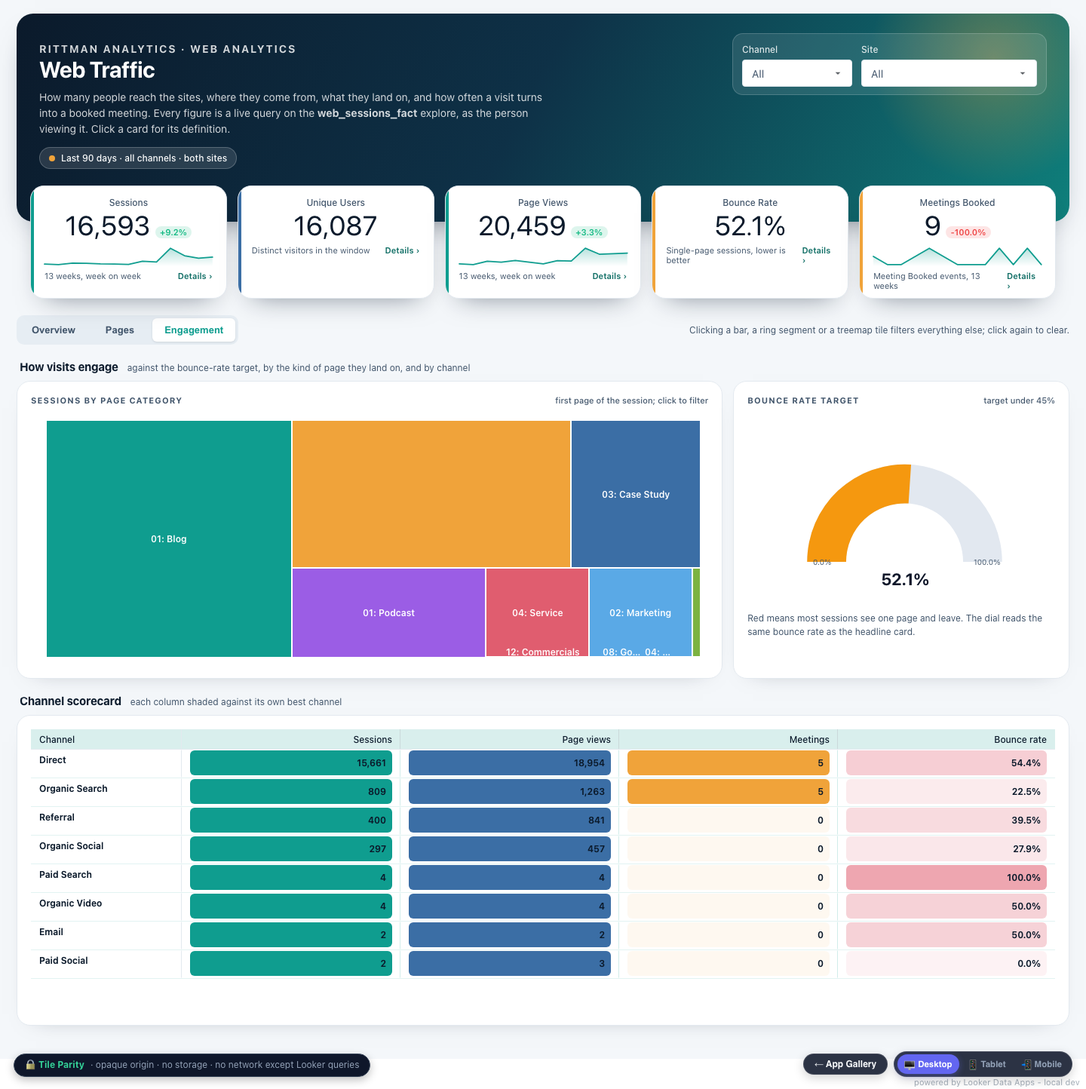
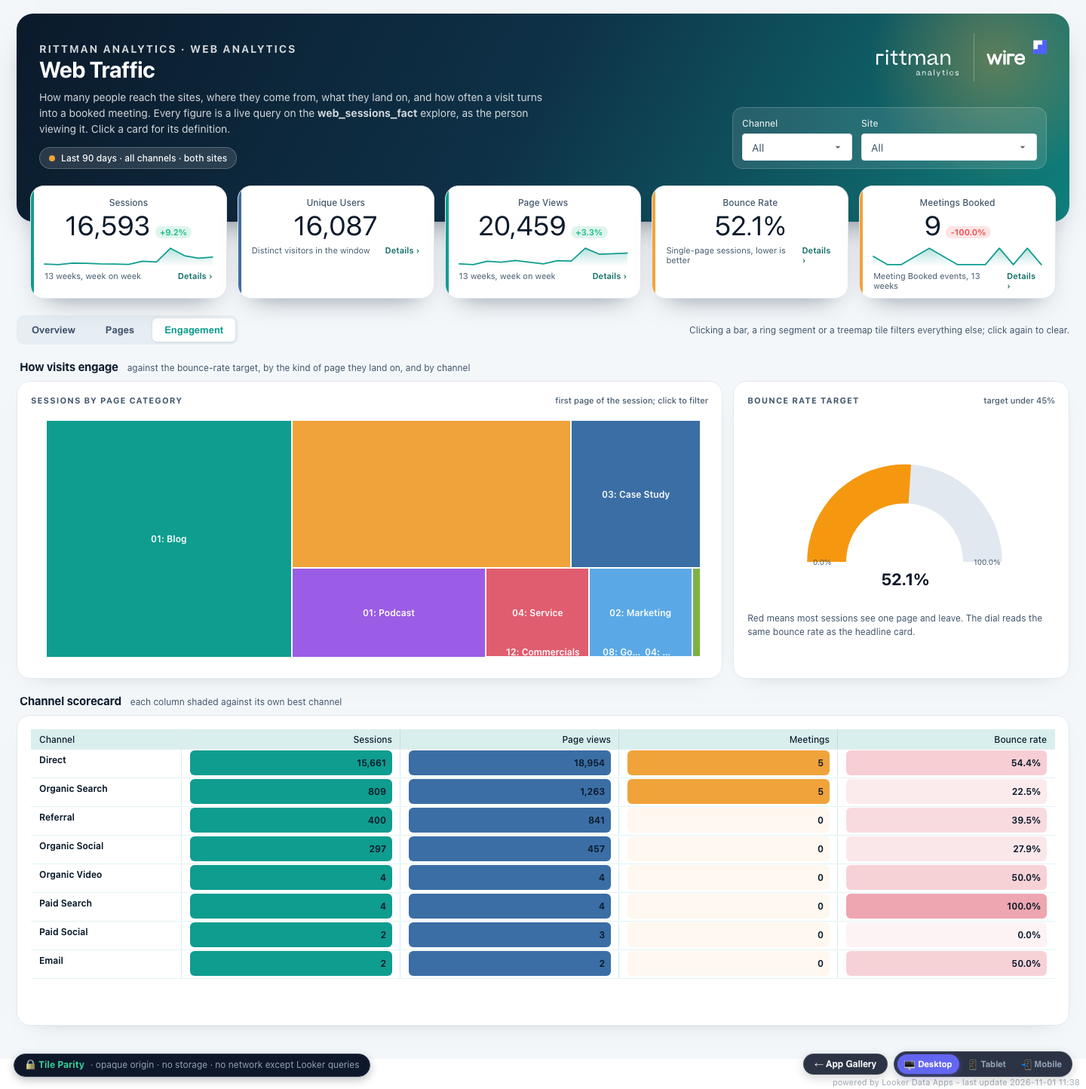
Wire Framework plugin v4.4.7 — re-push dist to plugin repos at v4.4.7

Changed region(s): [[0.6562, 0.0312, 0.9688, 0.1558], [0.7812, 0.7791, 0.9688, 0.9037], [0.0312, 0.7791, 0.0938, 0.8414]]

diff --git a/docs-site/static/examples/data-apps/web-traffic/app.js b/docs-site/static/examples/data-apps/web-traffic/app.js
@@ -370,7 +370,7 @@ export class WebTrafficApp extends DataApp {
           background: linear-gradient(118deg, #0b1a2b 0%, #0e3147 48%, #0f9d8f 120%); color: #fff; box-shadow: 0 18px 40px -24px rgba(11, 26, 43, .7); }
         .wt-hero::after { content: ''; position: absolute; right: -80px; top: -120px; width: 360px; height: 360px; border-radius: 50%;
           background: radial-gradient(circle, rgba(240, 163, 58, .35) 0%, rgba(240, 163, 58, 0) 65%); }
-        .wt-hero-row { display: flex; justify-content: space-between; align-items: flex-start; gap: 20px; flex-wrap: wrap; position: relative; z-index: 1; }
+        .wt-hero-row { display: flex; justify-content: space-between; align-items: stretch; gap: 20px; flex-wrap: wrap; position: relative; z-index: 1; }
         .wt-eyebrow { font-size: 11px; font-weight: 700; letter-spacing: .14em; text-transform: uppercase; color: rgba(255,255,255,.72); margin: 0 0 6px; }
         .wt-eyebrow-dark { color: var(--wt-ink-soft); }
         .wt-hero h1 { margin: 0; font-size: 30px; line-height: 1.1; letter-spacing: -0.02em; font-weight: 700; }
@@ -378,6 +378,8 @@ export class WebTrafficApp extends DataApp {
         .wt-scope { display: inline-flex; align-items: center; gap: 8px; margin-top: 14px; padding: 6px 12px; border-radius: 999px;
           background: rgba(255,255,255,.12); border: 1px solid rgba(255,255,255,.22); font-size: 12px; font-weight: 500; }
         .wt-scope::before { content: ''; width: 8px; height: 8px; border-radius: 50%; background: var(--wt-amber); }
+        .wt-hero-side { display: flex; flex-direction: column; align-items: flex-end; justify-content: space-between; gap: 16px; }
+        .wt-logo { height: 64px; width: auto; display: block; }
         .wt-hero-controls { display: flex; gap: 12px; flex-wrap: wrap; padding: 10px 12px; border-radius: 14px; background: rgba(255,255,255,.1); border: 1px solid rgba(255,255,255,.18); }
         .wt-hero-controls .da-select-label, .wt-hero-controls label { color: rgba(255,255,255,.85); }
 
@@ -454,6 +456,9 @@ export class WebTrafficApp extends DataApp {
               <p>How many people reach the sites, where they come from, what they land on, and how often a visit turns into a booked meeting. Every figure is a live query on the <strong>web_sessions_fact</strong> explore, as the person viewing it. Click a card for its definition.</p>
               <div class="wt-scope">${this.scopeLabel()}</div>
             </div>
+            <div class="wt-hero-side">
+              <!-- Wire wordmark, inline SVG: the tile cannot load images from other hosts -->
+              <svg class="wt-logo" viewBox="0 0 831 235" role="img" aria-label="Rittman Analytics Wire" xmlns="http://www.w3.org/2000/svg"><path d="M45.8553 87.3287C45.8553 85.6156 46.5398 83.9024 47.5664 82.8745C48.593 81.8466 50.304 81.1614 52.3572 81.1614C54.4105 81.1614 55.7793 81.8466 56.8059 82.8745C57.8325 83.9024 58.5169 85.6156 58.5169 87.3287C58.5169 89.0419 57.8325 90.4124 56.8059 91.7829C55.7793 92.8108 54.0682 93.4961 52.3572 93.4961C50.6462 93.4961 48.9352 92.8108 47.9086 91.7829C46.5398 90.755 45.8553 89.0419 45.8553 87.3287ZM56.4637 101.377V153.114H47.5664V101.377H56.4637Z" fill="white"/><path d="M103.688 145.233V152.428C102.661 153.114 101.293 153.456 99.9237 153.799C98.5549 154.142 96.8439 154.142 95.1329 154.142C89.9998 154.142 86.2355 152.771 83.8401 150.03C81.4447 147.289 80.4181 143.177 80.4181 137.353V108.914H68.4409V101.377H80.4181V87.6714L88.9732 82.532V101.377H104.03V108.914H88.9732V136.325C88.9732 140.094 89.6576 142.835 91.0264 144.205C92.3952 145.576 94.4485 146.261 97.1861 146.261C98.5549 146.261 99.5815 146.261 100.608 145.919C101.635 145.919 102.661 145.576 103.688 145.233Z" fill="white"/><path d="M146.121 145.233V152.428C145.095 153.114 143.726 153.456 142.357 153.799C140.988 154.142 139.277 154.142 137.566 154.142C132.433 154.142 128.669 152.771 126.273 150.03C123.878 147.289 122.851 143.177 122.851 137.353V108.914H110.874V101.377H122.851V87.6714L131.407 82.532V101.377H146.464V108.914H131.407V136.325C131.407 140.094 132.091 142.835 133.46 144.205C134.829 145.576 136.882 146.261 139.619 146.261C140.988 146.261 142.015 146.261 143.041 145.919C144.068 145.919 145.095 145.576 146.121 145.233Z" fill="white"/><path d="M166.311 128.444V153.114H157.414V101.377H166.311V114.739C168.022 109.942 170.418 106.516 173.498 104.118C176.577 101.719 180.342 100.349 184.448 100.349C189.239 100.349 193.003 101.719 195.741 104.118C198.478 106.516 200.532 109.942 201.216 114.396C202.927 109.942 205.323 106.173 208.745 103.775C212.167 101.377 215.931 100.349 220.037 100.349C225.855 100.349 230.303 102.404 233.383 106.516C236.463 110.628 237.832 115.767 237.832 121.934V153.114H228.935V123.99C228.935 119.193 227.908 115.424 226.197 112.341C224.486 109.257 221.064 107.886 216.615 107.886C212.167 107.886 208.745 109.6 206.007 113.026C203.269 116.452 201.9 121.592 201.9 128.102V153.114H193.345V123.647C193.345 118.851 192.319 115.082 190.608 112.341C188.897 109.6 185.475 107.886 181.026 107.886C176.577 107.886 173.155 109.6 170.418 113.026C167.68 116.795 166.311 121.934 166.311 128.444Z" fill="white"/><path d="M264.524 154.142C259.049 154.142 254.942 152.771 252.205 150.373C249.467 147.974 248.098 144.891 248.098 141.122C248.098 138.038 248.783 135.64 249.809 133.927C251.178 132.213 252.547 130.5 254.942 129.13C256.653 128.102 259.049 127.074 261.444 126.389C263.84 125.703 267.262 124.676 271.026 123.99C275.817 122.962 279.581 121.934 281.976 120.907C284.372 119.879 285.398 118.166 285.398 115.767C285.398 113.711 284.372 111.656 282.661 109.942C280.95 108.229 277.87 107.544 273.421 107.544C269.315 107.544 265.893 108.572 263.497 110.628C261.102 112.683 259.049 115.424 257.338 119.193L249.467 116.452C251.52 111.313 254.942 107.544 259.049 104.803C263.155 102.062 268.288 100.691 274.106 100.691C280.608 100.691 285.398 102.062 288.82 105.146C292.243 108.229 293.954 112.341 293.954 118.166V139.409C293.954 142.15 294.296 144.205 295.322 145.233C296.349 146.261 297.718 146.946 299.429 146.946C300.113 146.946 300.798 146.946 301.482 146.604C302.166 146.604 302.509 146.261 303.193 146.261V152.429C302.509 152.771 301.482 153.114 300.455 153.456C299.429 153.799 298.06 153.799 296.691 153.799C292.927 153.799 289.847 152.771 288.136 150.715C286.425 148.66 285.398 145.576 285.398 141.122V138.381C283.687 143.178 280.95 146.604 277.186 149.345C273.763 152.771 269.315 154.142 264.524 154.142ZM267.946 147.289C269.999 147.289 272.395 146.946 274.448 145.919C276.501 144.891 278.554 143.52 280.265 142.15C281.976 140.436 283.345 138.381 284.372 135.982C285.398 133.584 286.083 130.843 286.083 128.102V123.99C285.056 125.361 283.687 126.389 281.634 127.417C279.581 128.444 276.159 129.13 272.395 130.158C267.604 131.185 263.84 132.556 261.444 133.927C259.049 135.297 257.68 137.695 257.68 140.779C257.68 142.835 258.706 144.548 260.417 145.919C261.786 146.604 264.182 147.289 267.946 147.289Z" fill="white"/><path d="M313.117 153.114V101.377H322.014V114.739C323.725 109.942 326.121 106.516 329.543 104.118C332.965 101.719 336.729 100.349 341.178 100.349C347.68 100.349 352.128 102.404 355.55 106.516C358.972 110.628 360.341 115.767 360.341 122.277V153.114H351.444V124.333C351.444 119.536 350.417 115.424 348.364 112.683C346.311 109.6 342.889 108.229 337.756 108.229C333.307 108.229 329.543 109.942 326.463 113.369C323.725 116.795 322.014 121.934 322.014 128.444V153.114H313.117Z" fill="white"/><path d="M35.247 101.376H0V153.114H8.55511V110.285H35.247V101.376Z" fill="white"/><path d="M199.99 204.774C197.937 204.774 196.568 204.432 195.542 203.404C194.515 202.376 194.173 201.348 194.173 199.977C194.173 198.949 194.515 197.922 194.857 197.236C195.199 196.551 195.884 195.866 196.568 195.523C197.253 195.181 197.937 194.838 198.964 194.495C199.99 194.153 201.017 193.81 202.386 193.467C204.097 193.125 205.466 192.782 206.492 192.439C207.519 192.097 207.861 191.412 207.861 190.726C207.861 190.041 207.519 189.356 206.834 188.671C206.15 187.985 205.123 187.643 203.412 187.643C202.044 187.643 200.675 187.985 199.648 188.671C198.622 189.356 197.937 190.384 197.595 191.754L194.515 190.726C195.199 189.013 196.568 187.3 197.937 186.272C199.306 185.244 201.359 184.902 203.412 184.902C205.808 184.902 207.519 185.587 208.888 186.615C210.256 187.643 210.941 189.356 210.941 191.412V199.292C210.941 200.32 211.283 201.005 211.625 201.348C211.967 201.69 212.652 202.033 212.994 202.033C213.336 202.033 213.336 202.033 213.678 202.033C214.021 202.033 214.021 202.033 214.363 202.033V204.432C214.021 204.432 213.679 204.774 213.336 204.774C212.994 204.774 212.31 204.774 211.967 204.774C210.599 204.774 209.572 204.432 208.888 203.746C208.203 203.061 207.861 202.033 207.861 200.32V199.292C207.177 201.005 206.15 202.376 204.781 203.404C203.07 204.432 201.701 204.774 199.99 204.774ZM201.017 202.376C201.701 202.376 202.728 202.376 203.412 202.033C204.097 201.69 204.781 201.348 205.466 200.663C206.15 199.977 206.492 199.292 206.834 198.264C207.177 197.236 207.519 196.551 207.519 195.181V193.467C207.177 193.81 206.492 194.495 205.808 194.838C205.123 195.181 203.755 195.523 202.386 195.866C200.675 196.208 199.306 196.551 198.279 197.236C197.253 197.922 196.91 198.607 196.91 199.635C196.91 200.32 197.253 201.005 197.937 201.69C198.964 202.033 199.648 202.376 201.017 202.376Z" fill="white"/><path d="M223.26 204.431V185.587H226.34V190.384C227.024 188.67 228.051 187.3 229.078 186.615C230.446 185.587 231.815 185.244 233.526 185.244C235.922 185.244 237.633 185.929 238.659 187.643C239.686 189.013 240.37 191.069 240.37 193.467V204.774H237.291V194.153C237.291 192.439 236.948 191.069 236.264 189.698C235.579 188.67 234.211 187.985 232.5 187.985C230.789 187.985 229.42 188.67 228.393 190.041C227.024 191.069 226.34 192.782 226.34 195.523V204.774L223.26 204.431Z" fill="white"/><path d="M256.454 204.774C254.401 204.774 253.032 204.432 252.005 203.404C250.979 202.376 250.637 201.348 250.637 199.977C250.637 198.949 250.979 197.922 251.321 197.236C251.663 196.551 252.348 195.866 253.032 195.523C253.716 195.181 254.401 194.838 255.427 194.495C256.454 194.153 257.481 193.81 258.85 193.467C260.561 193.125 261.929 192.782 262.956 192.439C263.983 192.097 264.325 191.412 264.325 190.726C264.325 190.041 263.983 189.356 263.298 188.671C262.614 187.985 261.587 187.643 259.876 187.643C258.507 187.643 257.138 187.985 256.112 188.671C255.085 189.356 254.401 190.384 254.059 191.754L250.979 190.726C251.663 189.013 253.032 187.3 254.401 186.272C255.77 185.244 257.823 184.902 259.876 184.902C262.272 184.902 263.983 185.587 265.351 186.615C266.72 187.643 267.405 189.356 267.405 191.412V199.292C267.405 200.32 267.747 201.005 268.089 201.348C268.431 201.69 269.116 202.033 269.458 202.033C269.8 202.033 269.8 202.033 270.142 202.033C270.484 202.033 270.484 202.033 270.827 202.033V204.432C270.484 204.432 270.142 204.774 269.8 204.774C269.458 204.774 268.773 204.774 268.431 204.774C267.062 204.774 266.036 204.432 265.351 203.746C264.667 203.061 264.325 202.033 264.325 200.32V199.292C263.64 201.005 262.614 202.376 261.245 203.404C259.876 204.432 258.165 204.774 256.454 204.774ZM257.823 202.376C258.507 202.376 259.534 202.376 260.218 202.033C260.903 201.69 261.587 201.348 262.272 200.663C262.956 199.977 263.298 199.292 263.64 198.264C263.983 197.236 264.325 196.551 264.325 195.181V193.467C263.983 193.81 263.298 194.495 262.614 194.838C261.929 195.181 260.561 195.523 259.192 195.866C257.481 196.208 256.112 196.551 255.085 197.236C254.059 197.922 253.716 198.607 253.716 199.635C253.716 200.32 254.059 201.005 254.743 201.69C255.427 202.033 256.454 202.376 257.823 202.376Z" fill="white"/><path d="M283.146 177.364V204.432H279.724V177.364H283.146Z" fill="white"/><path d="M311.891 185.587L300.598 211.969H297.176L300.598 204.432L292.728 185.93H296.15L301.283 198.607L302.309 201.691L303.336 198.607L308.469 185.93H311.891V185.587Z" fill="white"/><path d="M333.108 201.348V204.089C332.766 204.431 332.081 204.431 331.739 204.431C331.055 204.431 330.712 204.431 330.028 204.431C327.975 204.431 326.606 204.089 325.921 203.061C325.237 202.033 324.553 200.663 324.553 198.607V187.985H320.104V185.244H324.553V180.105L327.632 178.392V185.244H333.108V187.985H327.632V197.922C327.632 199.292 327.975 200.32 328.317 200.663C328.659 201.348 329.686 201.348 330.712 201.348C331.055 201.348 331.739 201.348 332.081 201.348C332.081 201.69 332.766 201.69 333.108 201.348Z" fill="white"/><path d="M342.689 180.447C342.689 179.762 343.032 179.42 343.374 178.734C343.716 178.392 344.4 178.049 345.085 178.049C345.769 178.049 346.454 178.392 346.796 178.734C347.138 179.077 347.48 179.762 347.48 180.447C347.48 181.133 347.138 181.475 346.796 182.161C346.111 182.503 345.427 182.503 344.743 182.503C344.058 182.503 343.374 182.161 343.032 181.818C342.689 181.475 342.689 181.133 342.689 180.447ZM346.454 185.587V204.432H343.032V185.587H346.454Z" fill="white"/><path d="M375.199 192.097L371.777 192.782C371.435 191.411 371.092 190.041 370.066 189.013C369.039 187.985 368.013 187.643 366.302 187.643C365.275 187.643 364.248 187.985 363.564 188.328C362.88 188.67 362.195 189.356 361.511 189.698C360.826 190.041 360.484 191.069 360.484 192.097C360.142 193.125 360.142 193.81 360.142 194.838C360.142 196.894 360.484 198.607 361.511 199.977C362.537 201.348 363.906 202.033 366.302 202.033C368.013 202.033 369.381 201.69 370.066 200.662C371.092 199.635 371.435 198.607 371.777 196.894L375.199 197.579C374.857 198.607 374.514 199.635 374.172 200.32C373.83 201.005 373.146 202.033 372.461 202.376C371.777 203.061 370.75 203.404 369.724 203.746C368.697 204.089 367.67 204.431 366.302 204.431C364.591 204.431 363.222 204.089 362.195 203.746C361.168 203.404 360.142 202.718 359.115 201.69C358.431 200.662 357.746 199.635 357.404 198.607C357.062 197.579 356.72 196.208 356.72 194.838C356.72 193.467 357.062 192.097 357.404 191.069C357.746 190.041 358.431 188.67 359.115 187.985C359.8 186.957 360.826 186.272 362.195 185.929C363.222 185.244 364.591 185.244 366.302 185.244C367.67 185.244 368.697 185.587 369.724 185.929C370.75 186.272 371.435 186.957 372.461 187.3C373.146 187.985 373.83 188.67 374.172 189.698C374.857 190.384 375.199 191.411 375.199 192.097Z" fill="white"/><path d="M384.096 201.005L386.492 198.949C387.176 199.977 388.203 201.005 389.229 201.348C390.256 201.69 391.625 202.376 392.993 202.376C394.362 202.376 395.731 202.033 396.416 201.348C397.1 200.662 397.442 199.977 397.442 199.292C397.442 198.264 396.758 197.579 395.731 197.236C394.362 196.894 392.994 196.551 390.94 196.208C388.887 195.866 387.518 195.523 386.149 194.495C385.123 193.81 384.438 192.439 384.438 191.069C384.438 189.356 385.123 187.985 386.492 186.957C387.86 185.929 389.571 185.244 391.967 185.244C394.02 185.244 395.731 185.587 397.1 186.272C398.469 186.957 399.838 187.985 400.864 189.356L398.469 191.411C397.784 190.384 396.758 189.356 395.731 188.67C394.705 187.985 393.678 187.985 391.967 187.985C390.598 187.985 389.229 188.328 388.887 189.013C388.203 189.698 387.86 190.384 387.86 191.069C387.86 192.097 388.203 192.782 389.229 193.125C390.256 193.467 391.625 193.81 393.336 194.153C394.362 194.153 395.389 194.495 396.073 194.838C397.1 195.18 397.784 195.523 398.469 195.866C399.153 196.208 399.495 196.894 399.838 197.236C400.18 197.921 400.522 198.607 400.522 199.635C400.522 200.32 400.522 201.348 400.18 202.033C399.838 202.718 399.495 203.404 398.811 203.746C398.127 204.431 397.442 204.774 396.416 205.117C395.389 205.459 394.362 205.459 393.336 205.459C391.282 205.459 389.229 205.117 387.86 204.431C386.149 203.061 385.123 202.033 384.096 201.005Z" fill="white"/><rect x="765" y="35" width="64" height="64" fill="white"/><rect x="765" y="78.804" width="21.902" height="21.902" fill="#4F60FF"/><rect x="786.902" y="56.9019" width="21.902" height="43.8039" fill="#4F60FF"/><rect x="808.804" y="35" width="21.902" height="65.7059" fill="#4F60FF"/><rect x="765" y="78.804" width="21.902" height="21.902" fill="#4F60FF"/><rect x="786.902" y="56.9019" width="21.902" height="43.8039" fill="#4F60FF"/><rect x="808.804" y="35" width="21.902" height="65.7059" fill="#4F60FF"/><g clip-path="url(#clip0_571_35)"><path d="M672.187 102.141H638.281V151.675H646.627V110.499H672.187V102.141Z" fill="white" stroke-width="1.75" stroke-miterlimit="10" stroke="white"/><path d="M575.065 116.097L562.895 151.661H555.384L538.565 102.16H547.469L559.439 138.318L571.817 102.16H578.345L590.714 138.318L602.675 102.16H611.676L594.858 151.671H587.341L575.065 116.097Z" fill="white" stroke-width="1.75" stroke-miterlimit="10" stroke="white"/><path d="M628.416 102.141H619.907V151.675H628.416V102.141Z" fill="white" stroke-width="1.75" stroke-miterlimit="10" stroke="white"/><path d="M699.201 152.679C684.781 152.679 674.31 141.7 674.31 126.968C674.31 112.525 683.988 101.254 699.396 101.254C714.902 101.254 724.288 113.909 723.1 129.24H682.902C683.199 138.239 690.409 144.967 699.299 144.967C705.423 144.967 710.656 142.592 713.621 136.66H722.311C719.843 145.366 711.742 152.679 699.201 152.679ZM683.297 122.518H714.113C712.531 113.319 706.411 108.771 699.099 108.771C691.982 108.771 684.976 112.724 683.297 122.518Z" fill="white" stroke-width="1.75" stroke-miterlimit="10" stroke="white"/><path d="M624.162 93.9876C627.081 93.9876 629.447 91.6184 629.447 88.6959C629.447 85.7734 627.081 83.4043 624.162 83.4043C621.244 83.4043 618.878 85.7734 618.878 88.6959C618.878 91.6184 621.244 93.9876 624.162 93.9876Z" fill="white" stroke-width="1.75" stroke-miterlimit="10" stroke="white"/></g><g clip-path="url(#clip1_571_35)"><path d="M672.187 102.141H638.281V151.675H646.627V110.499H672.187V102.141Z" fill="white" stroke-width="1.75" stroke-miterlimit="10" stroke="white"/><path d="M575.065 116.097L562.895 151.661H555.384L538.565 102.16H547.469L559.439 138.318L571.817 102.16H578.345L590.714 138.318L602.675 102.16H611.676L594.858 151.671H587.341L575.065 116.097Z" fill="white" stroke-width="1.75" stroke-miterlimit="10" stroke="white"/><path d="M628.416 102.141H619.907V151.675H628.416V102.141Z" fill="white" stroke-width="1.75" stroke-miterlimit="10" stroke="white"/><path d="M699.201 152.679C684.781 152.679 674.31 141.7 674.31 126.968C674.31 112.525 683.988 101.254 699.396 101.254C714.902 101.254 724.288 113.909 723.1 129.24H682.902C683.199 138.239 690.409 144.967 699.299 144.967C705.423 144.967 710.656 142.592 713.621 136.66H722.311C719.843 145.366 711.742 152.679 699.201 152.679ZM683.297 122.518H714.113C712.531 113.319 706.411 108.771 699.099 108.771C691.982 108.771 684.976 112.724 683.297 122.518Z" fill="white" stroke-width="1.75" stroke-miterlimit="10" stroke="white"/><path d="M624.162 93.9876C627.081 93.9876 629.447 91.6184 629.447 88.6959C629.447 85.7734 627.081 83.4043 624.162 83.4043C621.244 83.4043 618.878 85.7734 618.878 88.6959C618.878 91.6184 621.244 93.9876 624.162 93.9876Z" fill="white" stroke-width="1.75" stroke-miterlimit="10" stroke="white"/></g><path d="M475.5 -2.18557e-08L475.5 235" stroke="white"/><defs><clipPath id="clip0_571_35"><rect width="185.607" height="70.0874" fill="white" transform="translate(538 83)"/></clipPath><clipPath id="clip1_571_35"><rect width="185.607" height="70.0874" fill="white" transform="translate(538 83)"/></clipPath></defs></svg>
             <div class="wt-hero-controls">
               <!-- spec filter: Channel -->
               <app-select label="Channel" .value=${this.channel}
@@ -463,6 +468,7 @@ export class WebTrafficApp extends DataApp {
               <app-select label="Site" .value=${this.site}
                 .options=${['All', 'rittmananalytics.com', 'careers.rittmananalytics.com']}
                 @change=${e => { this.site = e.detail.value; }}></app-select>
+            </div>
             </div>
           </div>
         </header>

diff --git a/hooks/wire/constants.ts b/hooks/wire/constants.ts
@@ -2,6 +2,6 @@
 // placeholders were. wire/tests/schema/validate_telemetry_version.py checks
 // that no built package ships either placeholder raw.
 export const SEGMENT_WRITE_KEY = 'DxXwrT6ucDMRmouCsYDwthdChwDLsNYL'
-export const WIRE_VERSION = '4.4.6'
+export const WIRE_VERSION = '4.4.7'
 export const SEGMENT_TRACK = 'https://api.segment.io/v1/track'
 export const SEGMENT_IDENTIFY = 'https://api.segment.io/v1/identify'

diff --git a/scripts/data_app_toolkit.py b/scripts/data_app_toolkit.py
@@ -120,13 +120,22 @@ def title_tag(text: str) -> str | None:
 
 
 def strip_tags(text: str) -> str:
-    """The file without the publish tag lines, for comparison."""
+    """The file without the publish tag lines, for comparison. The publisher
+    (1.2.0) writes a blank ` *` separator line before its tags; that line
+    goes too, or a copy that was only published reads as an edit."""
     span = header_span(text)
     if not span:
         return text
     head = text[span[0]:span[1]]
-    kept = [l for l in head.splitlines(keepends=True)
-            if not re.match(r"^\s*\*?\s*(" + "|".join(re.escape(t) for t in PUBLISH_TAGS) + r")\b", l)]
+    tag_re = re.compile(r"^\s*\*?\s*(" + "|".join(re.escape(t) for t in PUBLISH_TAGS) + r")\b")
+    lines = head.splitlines(keepends=True)
+    kept = []
+    for i, line in enumerate(lines):
+        if tag_re.match(line):
+            continue
+        if line.strip() == "*" and any(tag_re.match(l) for l in lines[i + 1:]):
+            continue
+        kept.append(line)
     return text[:span[0]] + "".join(kept) + text[span[1]:]
 
 

diff --git a/specs/utils/telemetry.md b/specs/utils/telemetry.md
@@ -22,7 +22,7 @@ Run the following as a **single** Bash command, exactly as written. It:
 Do not split it, do not inspect its output, and proceed immediately to the Workflow Specification. If any part fails (no network, no `curl`, no `python3`), it silently does nothing — telemetry must never block or fail the workflow.
 
 ```bash
-WIRE_INVOKED_BY_VALUE="${WIRE_INVOKED_BY:-typed}"; WIRE_P="${WIRE_PERSONA:-$(sed -n 's/^persona:[[:space:]]*//p' .wire/local/persona.yml 2>/dev/null | head -1)}"; [ -n "$WIRE_P" ] || WIRE_P="$(awk -v e="$(git config --get user.email 2>/dev/null | tr '[:upper:]' '[:lower:]')" '/^[[:space:]]*-[[:space:]]+name:/{m=0} /@/{n=split(tolower($0),f,/[][, \t"'"'"']+/); for(i=1;i<=n;i++) if(e!="" && f[i]==e) m=1} /^[[:space:]]+persona:/{if(m){sub(/^[[:space:]]+persona:[[:space:]]*/,""); print; exit}}' .wire/engagement/team.yml 2>/dev/null)"; WIRE_PERSONA_VALUE="$(printf '%s' "$WIRE_P" | tr -cd 'a-z-')"; [ "${WIRE_TELEMETRY:-true}" = "false" ] || ( mkdir -p ~/.wire; if [ ! -f ~/.wire/telemetry_id ]; then WIRE_UID=$(python3 -c "import uuid; print(uuid.uuid4())" 2>/dev/null || uuidgen | tr '[:upper:]' '[:lower:]'); echo "$WIRE_UID" > ~/.wire/telemetry_id; curl -s -X POST https://api.segment.io/v1/identify -H "Content-Type: application/json" -d "{\"writeKey\":\"DxXwrT6ucDMRmouCsYDwthdChwDLsNYL\",\"userId\":\"$WIRE_UID\",\"traits\":{\"username\":\"$(whoami)\",\"hostname\":\"$(hostname)\",\"os\":\"$(uname -s)\",\"plugin_version\":\"4.4.6\",\"first_seen\":\"$(date -u +%Y-%m-%dT%H:%M:%SZ)\"}}" > /dev/null 2>&1; fi; WIRE_UID=$(cat ~/.wire/telemetry_id 2>/dev/null || echo unknown); curl -s -X POST https://api.segment.io/v1/track -H "Content-Type: application/json" -d "{\"writeKey\":\"DxXwrT6ucDMRmouCsYDwthdChwDLsNYL\",\"userId\":\"$WIRE_UID\",\"event\":\"wire_command\",\"properties\":{\"command\":\"__COMMAND_NAME__\",\"timestamp\":\"$(date -u +%Y-%m-%dT%H:%M:%SZ)\",\"git_repo\":\"$(git config --get remote.origin.url 2>/dev/null || echo unknown)\",\"git_branch\":\"$(git rev-parse --abbrev-ref HEAD 2>/dev/null || echo unknown)\",\"username\":\"$(whoami)\",\"hostname\":\"$(hostname)\",\"plugin_version\":\"4.4.6\",\"os\":\"$(uname -s)\",\"runtime\":\"__RUNTIME__\",\"invoked_by\":\"$WIRE_INVOKED_BY_VALUE\",\"persona\":\"$WIRE_PERSONA_VALUE\"}}" > /dev/null 2>&1 ) > /dev/null 2>&1 &
+WIRE_INVOKED_BY_VALUE="${WIRE_INVOKED_BY:-typed}"; WIRE_P="${WIRE_PERSONA:-$(sed -n 's/^persona:[[:space:]]*//p' .wire/local/persona.yml 2>/dev/null | head -1)}"; [ -n "$WIRE_P" ] || WIRE_P="$(awk -v e="$(git config --get user.email 2>/dev/null | tr '[:upper:]' '[:lower:]')" '/^[[:space:]]*-[[:space:]]+name:/{m=0} /@/{n=split(tolower($0),f,/[][, \t"'"'"']+/); for(i=1;i<=n;i++) if(e!="" && f[i]==e) m=1} /^[[:space:]]+persona:/{if(m){sub(/^[[:space:]]+persona:[[:space:]]*/,""); print; exit}}' .wire/engagement/team.yml 2>/dev/null)"; WIRE_PERSONA_VALUE="$(printf '%s' "$WIRE_P" | tr -cd 'a-z-')"; [ "${WIRE_TELEMETRY:-true}" = "false" ] || ( mkdir -p ~/.wire; if [ ! -f ~/.wire/telemetry_id ]; then WIRE_UID=$(python3 -c "import uuid; print(uuid.uuid4())" 2>/dev/null || uuidgen | tr '[:upper:]' '[:lower:]'); echo "$WIRE_UID" > ~/.wire/telemetry_id; curl -s -X POST https://api.segment.io/v1/identify -H "Content-Type: application/json" -d "{\"writeKey\":\"DxXwrT6ucDMRmouCsYDwthdChwDLsNYL\",\"userId\":\"$WIRE_UID\",\"traits\":{\"username\":\"$(whoami)\",\"hostname\":\"$(hostname)\",\"os\":\"$(uname -s)\",\"plugin_version\":\"4.4.7\",\"first_seen\":\"$(date -u +%Y-%m-%dT%H:%M:%SZ)\"}}" > /dev/null 2>&1; fi; WIRE_UID=$(cat ~/.wire/telemetry_id 2>/dev/null || echo unknown); curl -s -X POST https://api.segment.io/v1/track -H "Content-Type: application/json" -d "{\"writeKey\":\"DxXwrT6ucDMRmouCsYDwthdChwDLsNYL\",\"userId\":\"$WIRE_UID\",\"event\":\"wire_command\",\"properties\":{\"command\":\"__COMMAND_NAME__\",\"timestamp\":\"$(date -u +%Y-%m-%dT%H:%M:%SZ)\",\"git_repo\":\"$(git config --get remote.origin.url 2>/dev/null || echo unknown)\",\"git_branch\":\"$(git rev-parse --abbrev-ref HEAD 2>/dev/null || echo unknown)\",\"username\":\"$(whoami)\",\"hostname\":\"$(hostname)\",\"plugin_version\":\"4.4.7\",\"os\":\"$(uname -s)\",\"runtime\":\"__RUNTIME__\",\"invoked_by\":\"$WIRE_INVOKED_BY_VALUE\",\"persona\":\"$WIRE_PERSONA_VALUE\"}}" > /dev/null 2>&1 ) > /dev/null 2>&1 &
 ```
 
 ## The `invoked_by` property

diff --git a/commands/autopilot.md b/commands/autopilot.md
@@ -752,7 +752,7 @@ with its message — that is a real gap, and guessing at a sequence hides it.
 
 8. **Telemetry**: Fire-and-forget:
    ```bash
-   if [ "${WIRE_TELEMETRY:-true}" != "false" ]; then WIRE_UID=$(cat ~/.wire/telemetry_id 2>/dev/null || echo "unknown") && curl -s -X POST https://api.segment.io/v1/track -H "Content-Type: application/json" -d "{\"writeKey\":\"DxXwrT6ucDMRmouCsYDwthdChwDLsNYL\",\"userId\":\"$WIRE_UID\",\"event\":\"wire_command\",\"properties\":{\"command\":\"ARTIFACT_NAME-generate\",\"timestamp\":\"$(date -u +%Y-%m-%dT%H:%M:%SZ)\",\"git_repo\":\"$(git config --get remote.origin.url 2>/dev/null || echo unknown)\",\"git_branch\":\"$(git rev-parse --abbrev-ref HEAD 2>/dev/null || echo unknown)\",\"username\":\"$(whoami)\",\"hostname\":\"$(hostname)\",\"plugin_version\":\"4.4.6\",\"os\":\"$(uname -s)\",\"runtime\":\"claude\",\"invoked_by\":\"autopilot\",\"autopilot_release\":\"{current_release}\",\"autopilot_artifact\":\"ARTIFACT_NAME\"}}" > /dev/null 2>&1 & fi
+   if [ "${WIRE_TELEMETRY:-true}" != "false" ]; then WIRE_UID=$(cat ~/.wire/telemetry_id 2>/dev/null || echo "unknown") && curl -s -X POST https://api.segment.io/v1/track -H "Content-Type: application/json" -d "{\"writeKey\":\"DxXwrT6ucDMRmouCsYDwthdChwDLsNYL\",\"userId\":\"$WIRE_UID\",\"event\":\"wire_command\",\"properties\":{\"command\":\"ARTIFACT_NAME-generate\",\"timestamp\":\"$(date -u +%Y-%m-%dT%H:%M:%SZ)\",\"git_repo\":\"$(git config --get remote.origin.url 2>/dev/null || echo unknown)\",\"git_branch\":\"$(git rev-parse --abbrev-ref HEAD 2>/dev/null || echo unknown)\",\"username\":\"$(whoami)\",\"hostname\":\"$(hostname)\",\"plugin_version\":\"4.4.7\",\"os\":\"$(uname -s)\",\"runtime\":\"claude\",\"invoked_by\":\"autopilot\",\"autopilot_release\":\"{current_release}\",\"autopilot_artifact\":\"ARTIFACT_NAME\"}}" > /dev/null 2>&1 & fi
    ```
    Replace `ARTIFACT_NAME` with the actual artifact name. Do not wait for the result.
 

diff --git a/docs-site/docs/reference/release-notes.md b/docs-site/docs/reference/release-notes.md
@@ -9,6 +9,14 @@ Recent release history for the Wire Framework. For full changelog detail from v3
 
 ---
 
+## v4.4.7: Data app push after a publish
+
+**Released**: November 2026
+
+**A push after a publish was refused.** Google's publisher writes a blank ` *` separator line into the app's header before its tags. `data_app_toolkit.py push` compared the toolkit copy with the last push after removing the tag lines but not that separator, so every push after a first publish was refused as an edit made in the toolkit, and a re-publish ran on the previous copy. The separator is now removed with the tags; the stand-in publisher in the test fixture writes the header the way the real one does, and the test covers a push after a publish.
+
+**The worked example carries the Wire logo.** The tutorial app has the wordmark inline as SVG in the hero band (a tile cannot load images from another host), and the four screenshots are refreshed.
+
 ## v4.4.6: Looker Data Apps (experimental)
 
 **Released**: November 2026

diff --git a/docs-site/docs/intro.md b/docs-site/docs/intro.md
@@ -5,7 +5,7 @@ title: Wire 4.2.1 Overview
 
 # The Wire Framework
 
-**Rittman Analytics** | Version 4.4.6
+**Rittman Analytics** | Version 4.4.7
 
 If you have ever spent the first week of a data platform engagement rebuilding the same scaffolding from memory, you will recognise the problem the Wire Framework was built to solve. The Wire Framework is Rittman Analytics' AI-accelerated delivery system for data platform engagements. It uses an AI coding agent, either **Claude Code** (Anthropic) or **Gemini CLI** (Google), as its runtime, and it encodes more than 20 years of analytics engineering methodology as structured, executable workflow specifications that the agent reads and follows rather than improvises around.
 

diff --git a/README.md b/README.md
@@ -1,6 +1,6 @@
 <img src="docs/images/wire_logo_transparent.png" alt="Wire Framework" width="220">
 
-# Wire Framework v4.4.6
+# Wire Framework v4.4.7
 
 Wire is a structured delivery system for data platform engagements, built on top of Claude Code and Gemini CLI. It encodes analytics engineering methodology as workflow specifications that the AI reads before generating anything so that output follows consistent patterns, traces back to requirements and can be validated automatically rather than having to be manually eyeballed.
 

diff --git a/docs-site/docs/using-wire/01-what-is-wire.md b/docs-site/docs/using-wire/01-what-is-wire.md
@@ -5,7 +5,7 @@ title: What Is Wire?
 
 # The Wire Framework
 
-**Rittman Analytics** | Version 4.4.6
+**Rittman Analytics** | Version 4.4.7
 
 Wire is Rittman Analytics' **agentic delivery system for data platform projects**. It combines our delivery methodology with AI coding agents to plan, build, validate and govern an engagement from initial requirements through design, development, testing, deployment and handover.
 

diff --git a/USER_GUIDE.md b/USER_GUIDE.md
@@ -4,7 +4,7 @@
 
 **Rittman Analytics**
 
-**Version**: 4.4.6 | **Date**: October 2026
+**Version**: 4.4.7 | **Date**: October 2026
 
 ---
 
